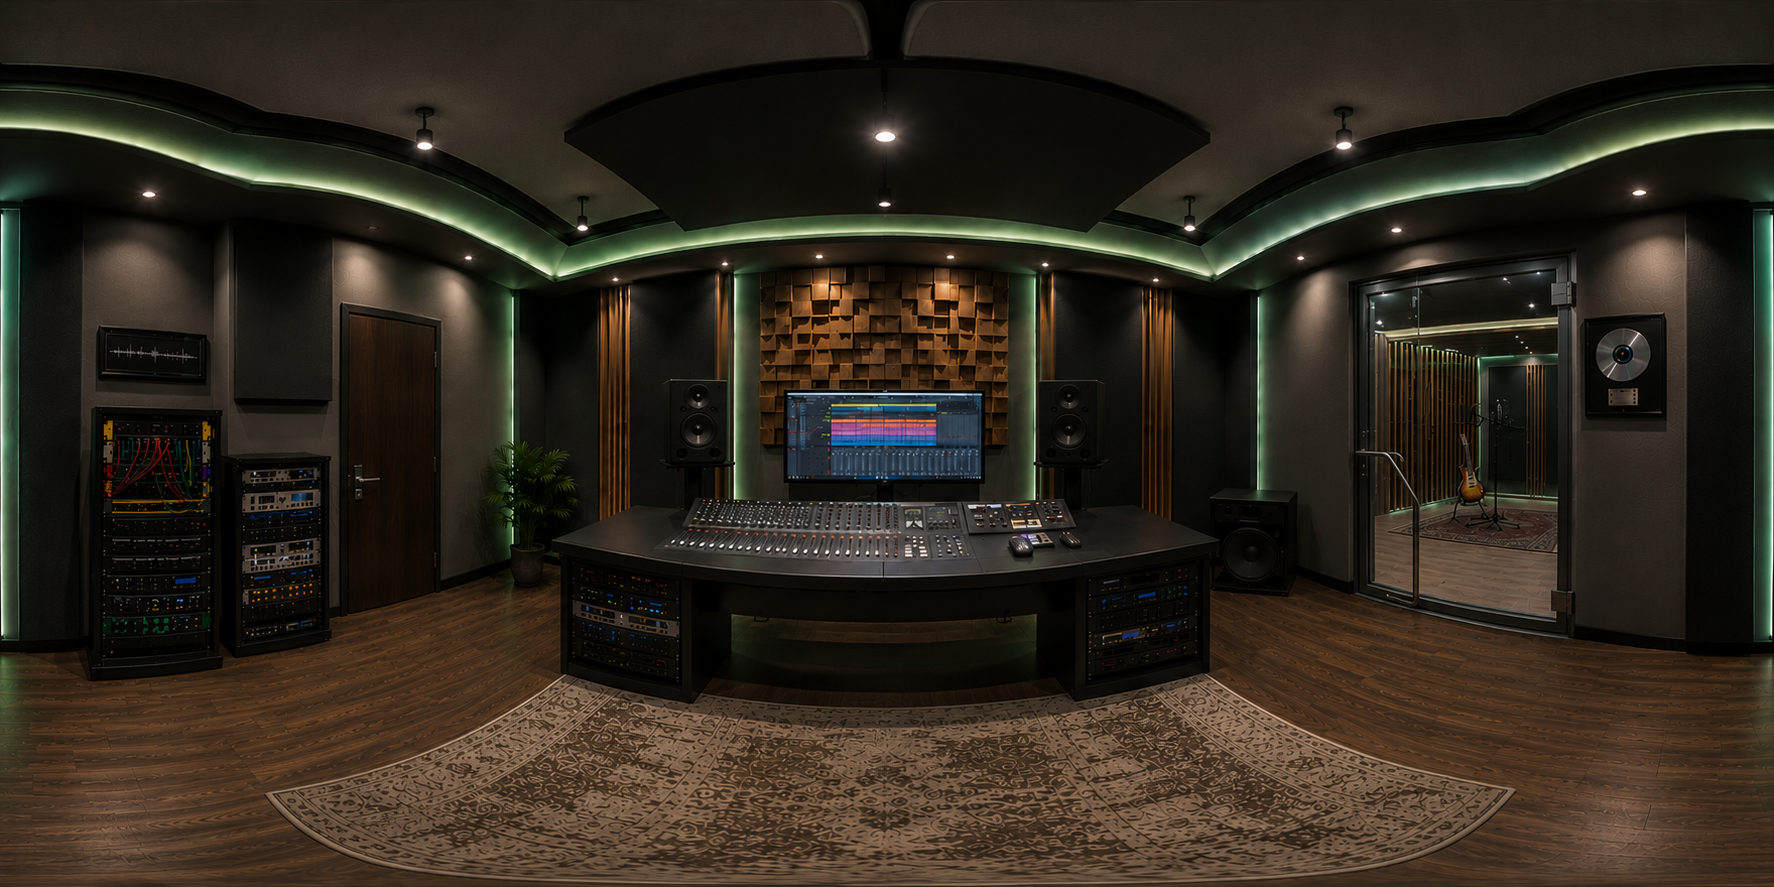
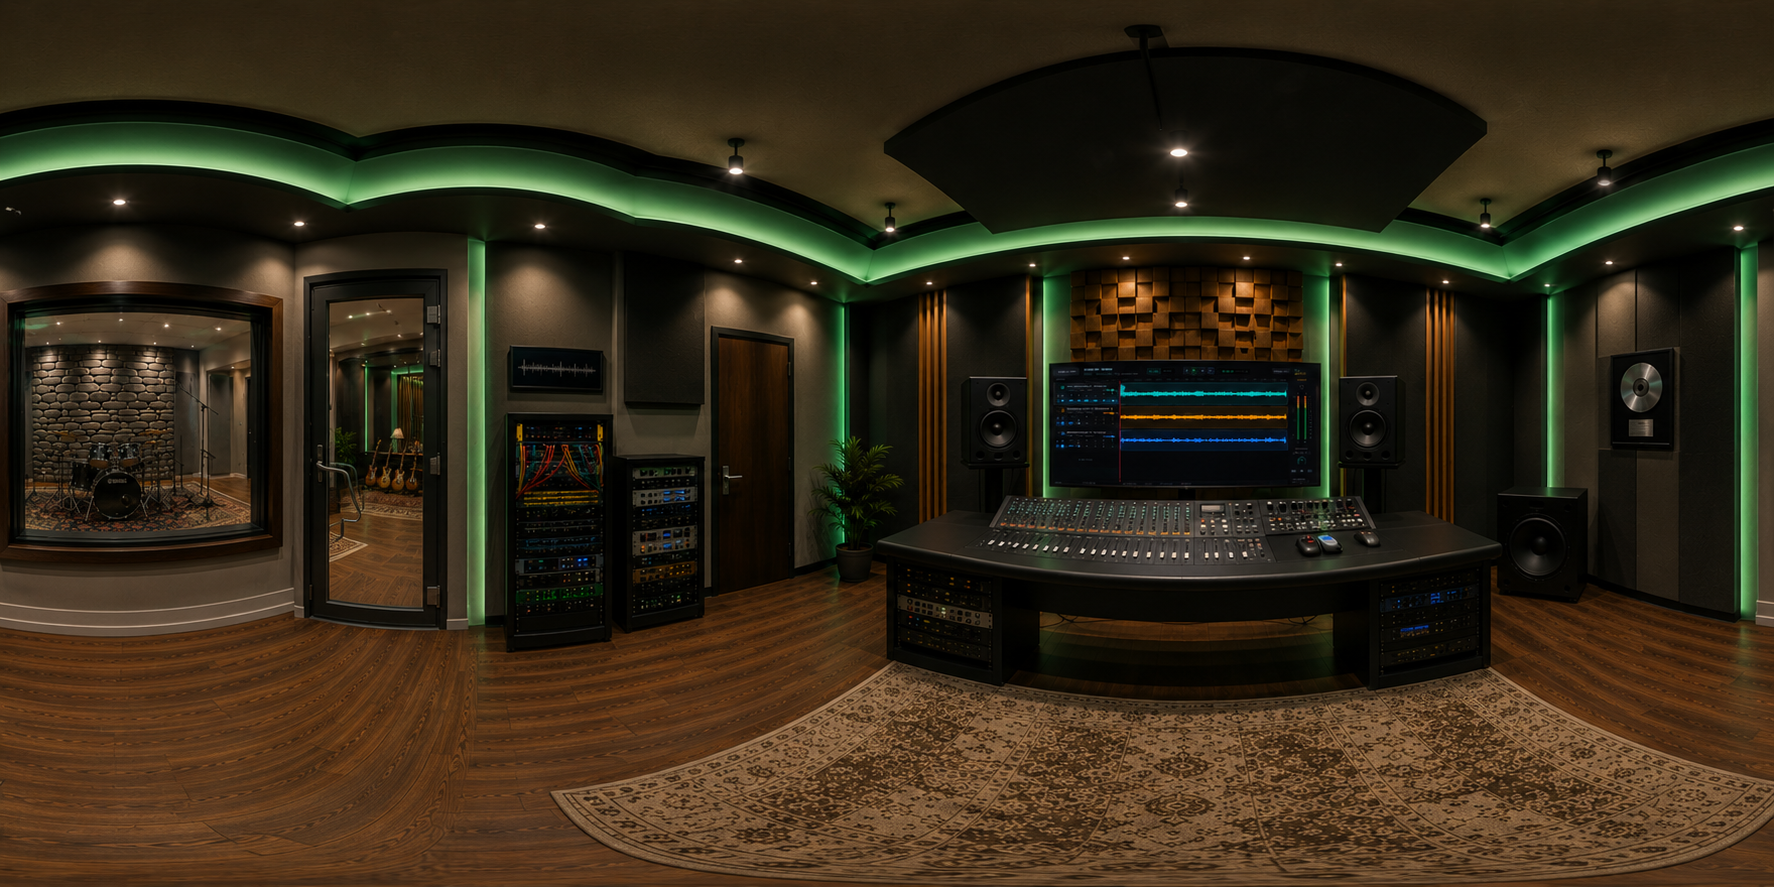
commit

diff --git a/studio-vr/src/panorama/roomsData.js b/studio-vr/src/panorama/roomsData.js
@@ -19,6 +19,15 @@
 //   4. The yaw/pitch of that exact click is printed to the console and
 //      shown on screen — copy those numbers into a new entry below.
 //
+// Each `links[]` entry's `yaw`/`pitch` place the door hotspot within the
+// *current* room's photo — where it appears on screen, nothing else. The
+// separate `arrivalYaw`/`arrivalPitch` on that same entry is the camera
+// direction the viewer lands facing once that door is clicked, inside the
+// *destination* room's photo (see goToRoom() in PanoramaTour.jsx). These are
+// independent because the two panoramas don't share a coordinate frame —
+// "56.6 yaw" in the recording room's photo has no relation to any angle in
+// the studio room's photo.
+//
 // Each marker's `audio` field is the recorded narration clip that plays,
 // spatialized to that hotspot's direction, when it's selected — the path
 // must match a real file in public/audio/ exactly. Any common web audio
@@ -65,8 +74,13 @@ export const ROOMS = [
     links: [
       {
         nodeId: "recording-room",
-        yaw: 120.5,
-        pitch: -3.4,
+        yaw: 256.8,
+        pitch: -8.2,
+        // Where the camera lands, looking into the recording room, once
+        // this door is clicked — independent of the yaw/pitch above, which
+        // only places the door hotspot within *this* room's photo.
+        arrivalYaw: 56.6,
+        arrivalPitch: -16.8,
       },
     ],
     // In-scene control for the roomBleed bed above: its own hotspot
@@ -77,16 +91,16 @@ export const ROOMS = [
       {
         id: "recording-room-bleed-volume",
         target: "roomBleed",
-        yaw: 58.3,
-        pitch: -20.1,
+        yaw: 117.0,
+        pitch: -19.6,
         title: "Recording Room Bleed",
       },
     ],
     markers: [
       {
         id: "speaker",
-        yaw: 322.3,
-        pitch: -3.3,
+        yaw: 22.4,
+        pitch: -2.9,
         title: "Speakers",
         audio: "/audio/speaker.mp3",
         // The rotatable 3D scan preview for this piece of gear now lives on
@@ -106,8 +120,8 @@ export const ROOMS = [
       },
       {
         id: "mixing-console",
-        yaw: 357.4,
-        pitch: -21.8,
+        yaw: 51.7,
+        pitch: -20.0,
         title: "Mixing Console",
         audio: "/audio/mixing-console.mp3",
         description:
@@ -124,8 +138,8 @@ export const ROOMS = [
       },
       {
         id: "patch-bay",
-        yaw: 208.0,
-        pitch: -13.8,
+        yaw: 294.5,
+        pitch: -15.2,
         title: "Patch Bay",
         audio: "/audio/patch-bay.mp3",
         description:
@@ -142,8 +156,8 @@ export const ROOMS = [
       },
       {
         id: "preamp-rack",
-        yaw: 236.5,
-        pitch: -10.8,
+        yaw: 315.0,
+        pitch: -19.2,
         title: "Preamp Rack",
         audio: "/audio/preamp.mp3",
         description:
@@ -160,8 +174,8 @@ export const ROOMS = [
       },
       {
         id: "diffuser-panel",
-        yaw: 63.7,
-        pitch: 17.8,
+        yaw: 124.0,
+        pitch: 19.4,
         title: "Acoustic Diffuser",
         audio: "/audio/diffuser.mp3",
         description:
@@ -178,8 +192,8 @@ export const ROOMS = [
       },
       {
         id: "lf-emitter",
-        yaw: 73.8,
-        pitch: -22.3,
+        yaw: 133.7,
+        pitch: -19.8,
         title: "Low Frequency Emitter",
         audio: "/audio/lfe.mp3",
         description:
@@ -196,8 +210,8 @@ export const ROOMS = [
       },
       {
         id: "sound-card",
-        yaw: 26.7,
-        pitch: -15.4,
+        yaw: 88.5,
+        pitch: -15.1,
         title: "Sound Card",
         audio: "/audio/sound-card.mp3",
         description:
@@ -231,8 +245,8 @@ export const ROOMS = [
       {
         id: "daw-screens",
         type: "daw",
-        yaw: 0,
-        pitch: 8,
+        yaw: 62.2,
+        pitch: 14.8,
         title: "DAW Workstation",
       },
     ],
@@ -254,8 +268,12 @@ export const ROOMS = [
     links: [
       {
         nodeId: "studio-room",
-        yaw: 256.3,
-        pitch: -5.3,
+        yaw: 284.0,
+        pitch: 0.4,
+        // Where the camera lands, looking into the studio room, once this
+        // door is clicked.
+        arrivalYaw: 284.2,
+        arrivalPitch: -7.6,
       },
     ],
     markers: [],

diff --git a/studio-vr/src/panorama/PanoramaTour.jsx b/studio-vr/src/panorama/PanoramaTour.jsx
@@ -277,12 +277,10 @@ function PanoramaTour() {
       // "zoom out to normal position" reveal instead of just appearing.
       defaultZoomLvl: 75,
       // Initial camera direction the very first panorama (the studio room,
-      // per START_NODE_ID) loads facing — yaw 0 (straight ahead per the
-      // photo's own reference direction), pitch -30.1 (tilted down toward
-      // the console/rack area rather than looking level or up at the
-      // ceiling) for the first-arrival reveal.
-      defaultYaw: "359deg",
-      defaultPitch: "-15deg",
+      // per START_NODE_ID) loads facing — yaw 61.6, pitch -10.8, for the
+      // first-arrival reveal.
+      defaultYaw: "61.6deg",
+      defaultPitch: "-10.8deg",
       // Caps how far zoom-in can go (via the navbar slider, scroll, or a
       // hotspot's zoomLvl). Raised back up from the library default of 30 —
       // it had been lowered to 15 to allow an extreme close-in, but that let
